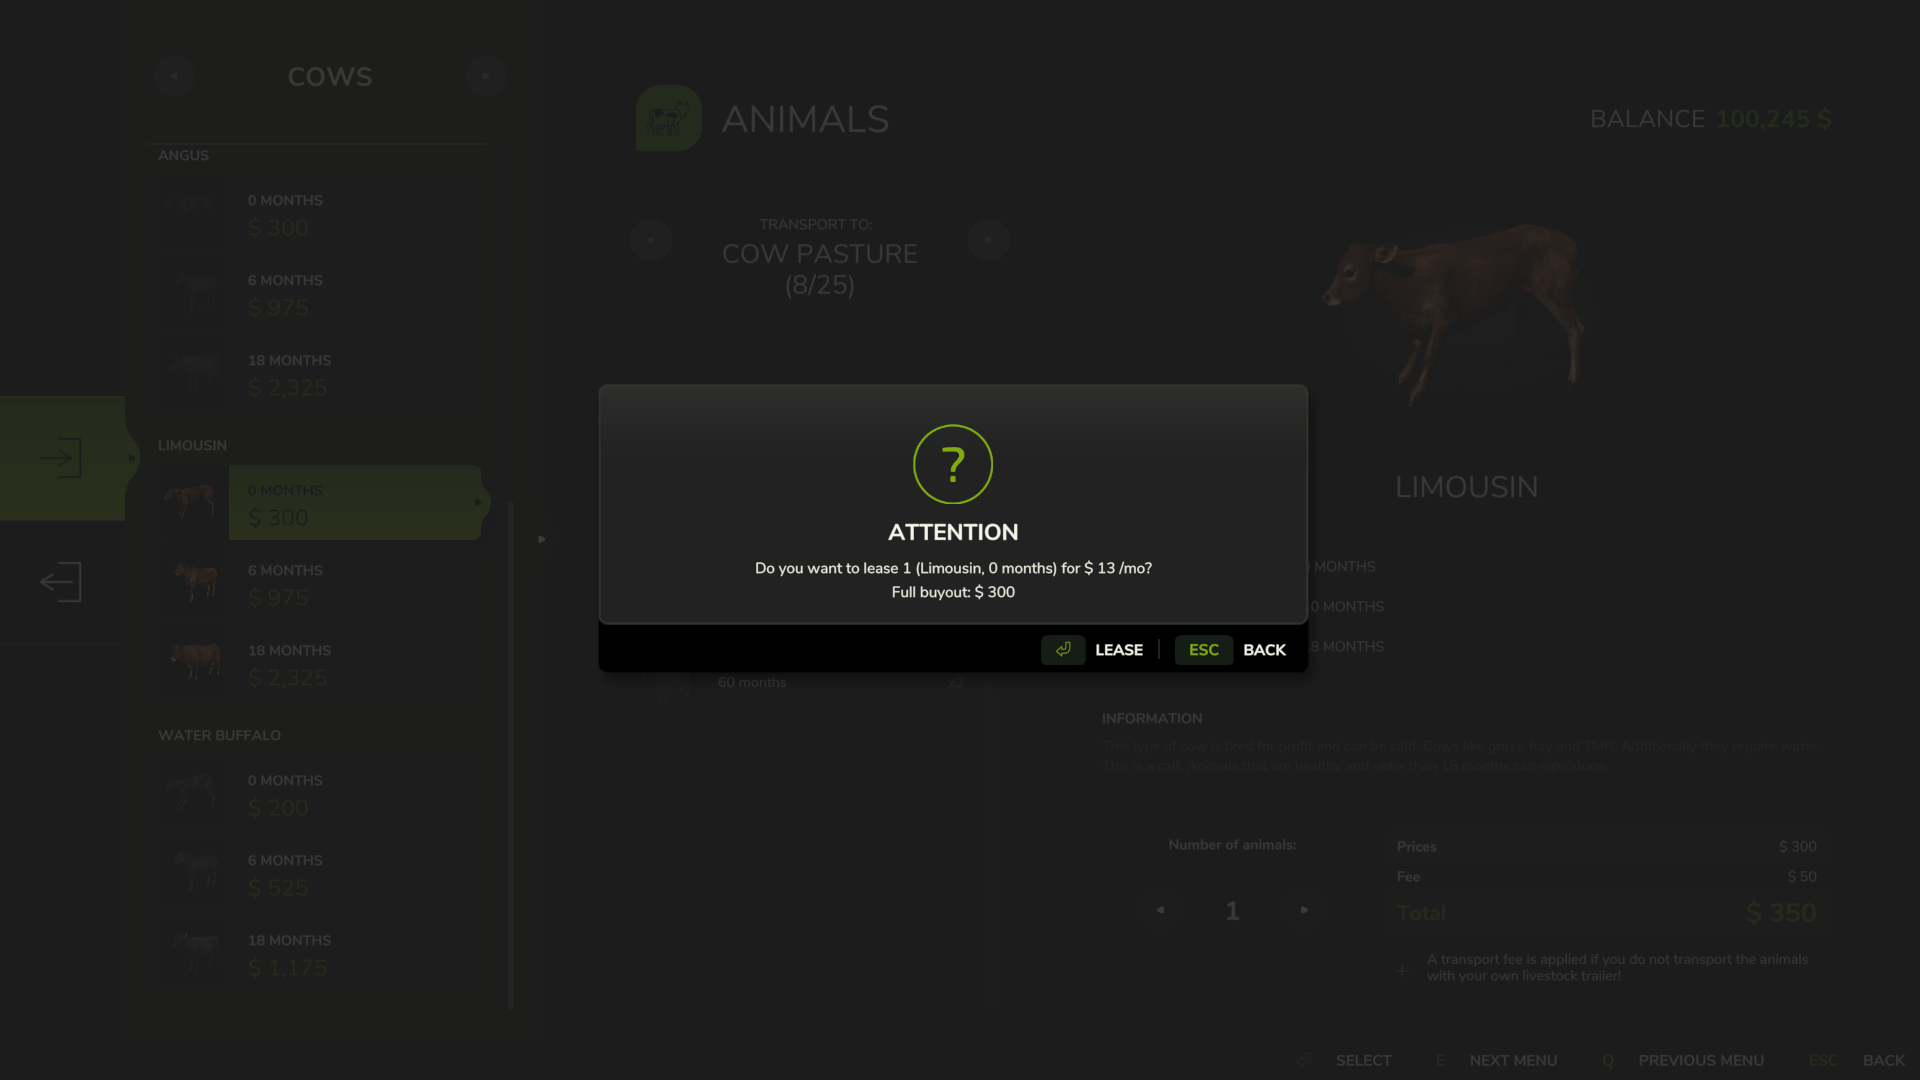
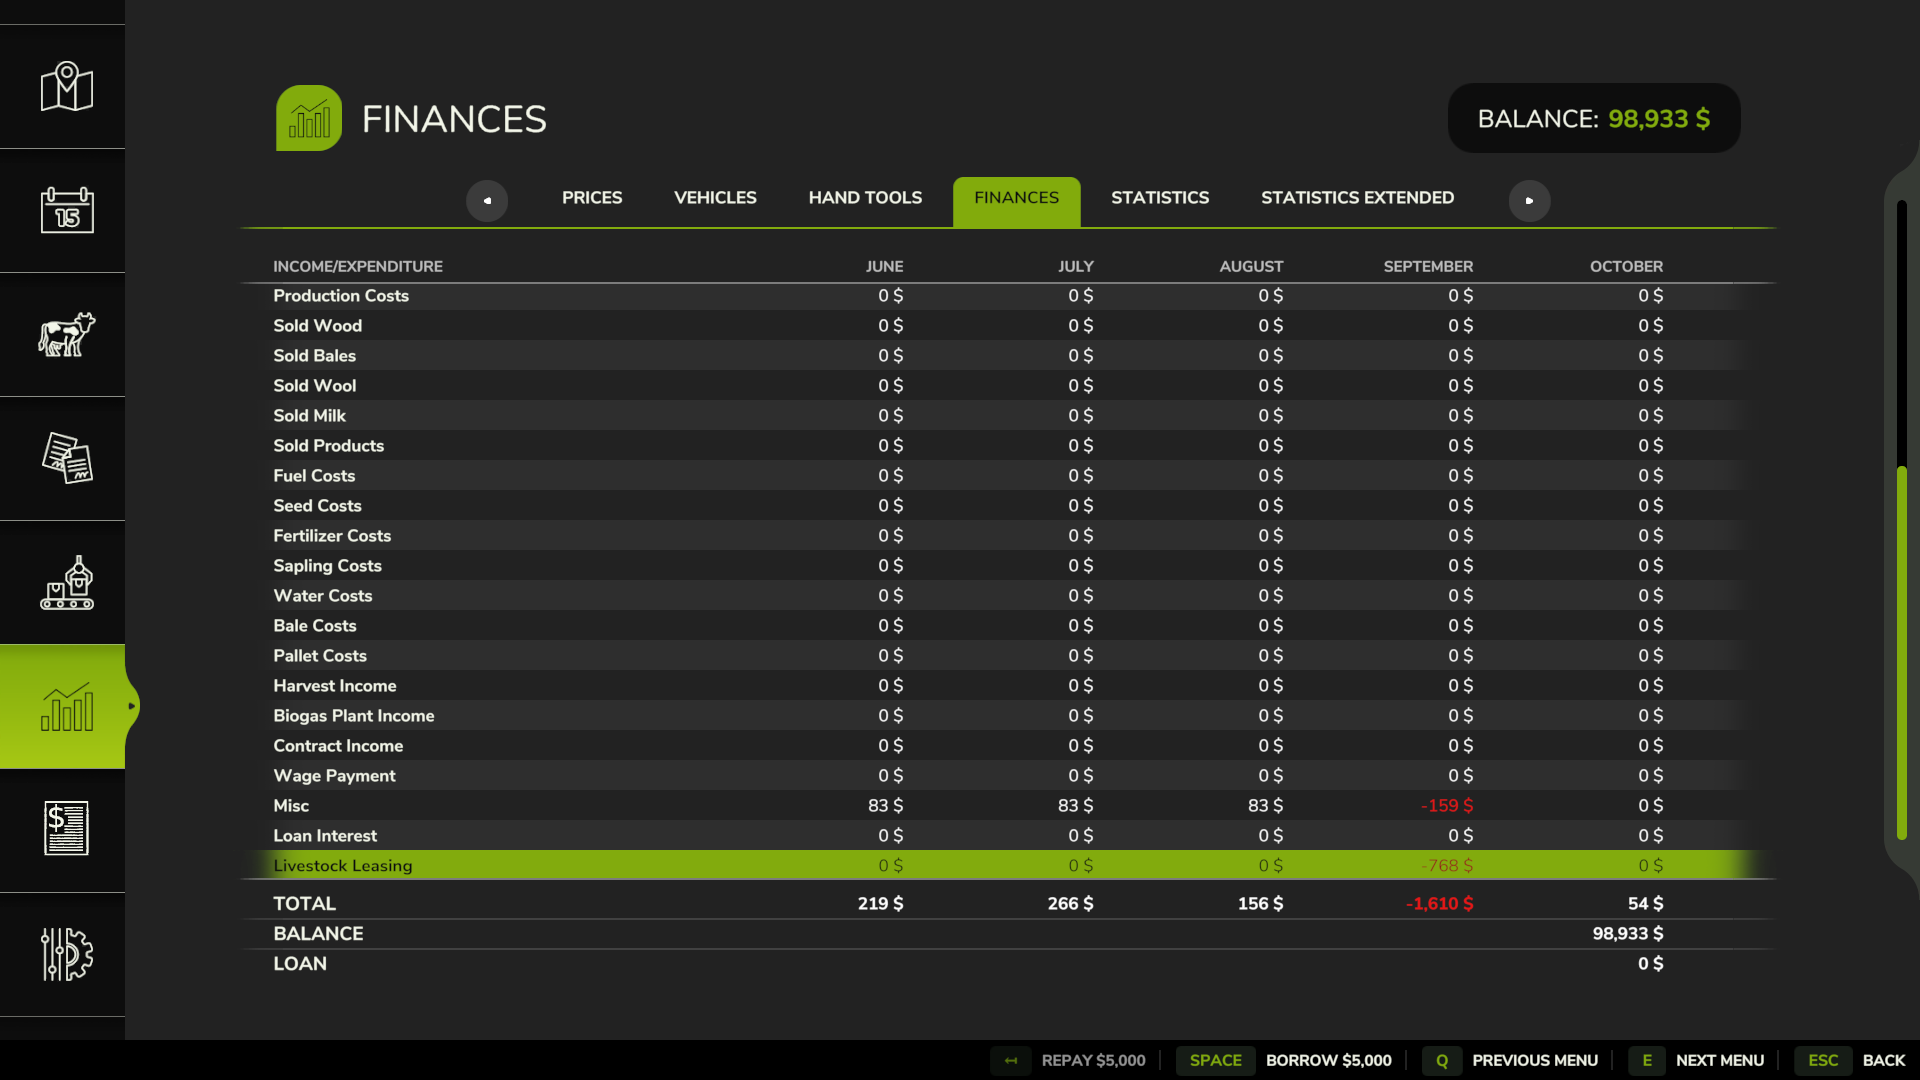
Add lease costs to finance screen

diff --git a/README.md b/README.md
@@ -1,6 +1,8 @@
 # :cow: LL - Farming Simulator 25 Lease Livestock
-WIP
+(WIP)
+Lease livestock from animal dealers instead of buying outright. Leased animals appear in separate sections on the animal screen and are tracked on the finances screen under "Livestock Leasing". Lease payments are charged each in-game period.
 
 ![screenshot 1](https://github.com/EvanKirsch/fs25-lease-livestock/blob/master/screenshots/Screenshot_1.png)
+
 ## :hammer_and_wrench: Manual Build Instructions
 `git archive -o FS25_LeaseLivestock.zip HEAD`